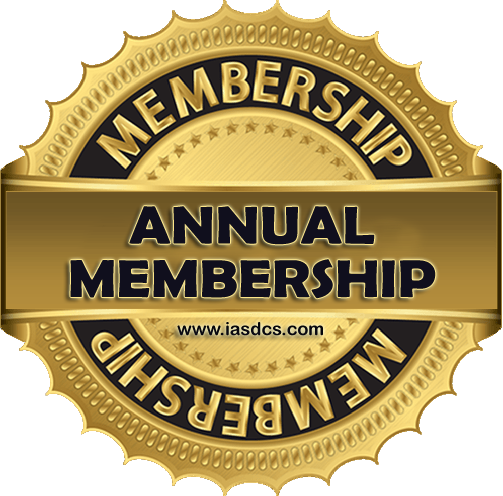
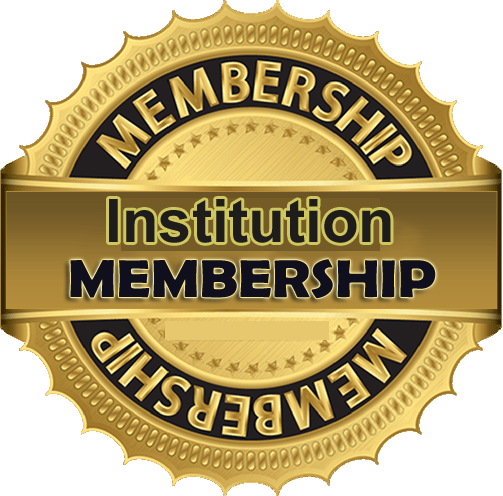
ad

Changed region(s): [[0.2087, 0.3931, 0.8052, 0.5141], [0.328, 0.6351, 0.6561, 0.6956]]

diff --git a/index.html b/index.html
@@ -37,7 +37,7 @@ https://templatemo.com/tm-569-edu-meeting
       <div class="row">
         <div class="col-lg-8 col-sm-8">
           <div class="left-content">
-            <p>Admin Login <em><a href="member.html">Membership</a></em> Support MKVP</p>
+            <p>Admin Login <em><a href="https://forms.gle/WF74cvtoECkW7WP26">Membership</a></em> Support MKVP</p>
           </div>
         </div>
         <div class="col-lg-4 col-sm-4">
@@ -115,7 +115,7 @@ https://templatemo.com/tm-569-edu-meeting
               <h2>Mahakoshal Vigyan Parishad </h2>
               
               <div class="main-button-red">
-        <a href="member.html">          <div class="scroll-to-section">Join Us Now!</div></a>
+        <a href="https://forms.gle/WF74cvtoECkW7WP26">          <div class="scroll-to-section">Join Us Now!</div></a>
               </div>
           </div>
               </div>
@@ -209,7 +209,7 @@ https://templatemo.com/tm-569-edu-meeting
               <li><a href="#">Support for Early Career Researchers</a></li>
             </ul>
             <div class="main-button-red">
-              <a href="member.html">Join us Now</a>
+              <a href="https://forms.gle/WF74cvtoECkW7WP26">Join us Now</a>
             </div>
           </div>
         </div>
@@ -221,11 +221,11 @@ https://templatemo.com/tm-569-edu-meeting
                   <div class="price">
                     <span>INR.1000 NR </span>
                   </div>
-                   <a href="member.html"> <img src="assets/images/a2.png" alt="New Lecturer Meeting"></a>
+                   <a href="https://forms.gle/WF74cvtoECkW7WP26"> <img src="assets/images/a2.png" alt="New Lecturer Meeting"></a>
                 </div>
                 <div class="down-content">
                  
-                  <a href="meeting-details.html"><h4>Life time Membership</h4></a>                  <p>Banifits<br>...................
+                  <a href="meeting-details.html"><h4>Personal Membership </h4></a>                  <p>Fees 1000<br>...................
                 </div>
               </div>
             </div>
@@ -235,12 +235,12 @@ https://templatemo.com/tm-569-edu-meeting
                   <div class="price">
                     <span>INR 600</span>
                   </div>
-                   <a href="member.html"> <img src="assets/images/a1.png" alt="Online Teaching"></a>
+                   <a href="https://forms.gle/WF74cvtoECkW7WP26"> <img src="assets/images/a1.png" alt="Online Teaching"></a>
                 </div>
                 <div class="down-content">
                   
-                  <a href="meeting-details.html"><h4>Yearly Membership </h4>
-                  <p>Banifits<br>..................
+                  <a href="meeting-details.html"><h4>Institution Membership </h4>
+                  <p>Fees 600<br>..................
                 </div>
               </div>
             </div>
